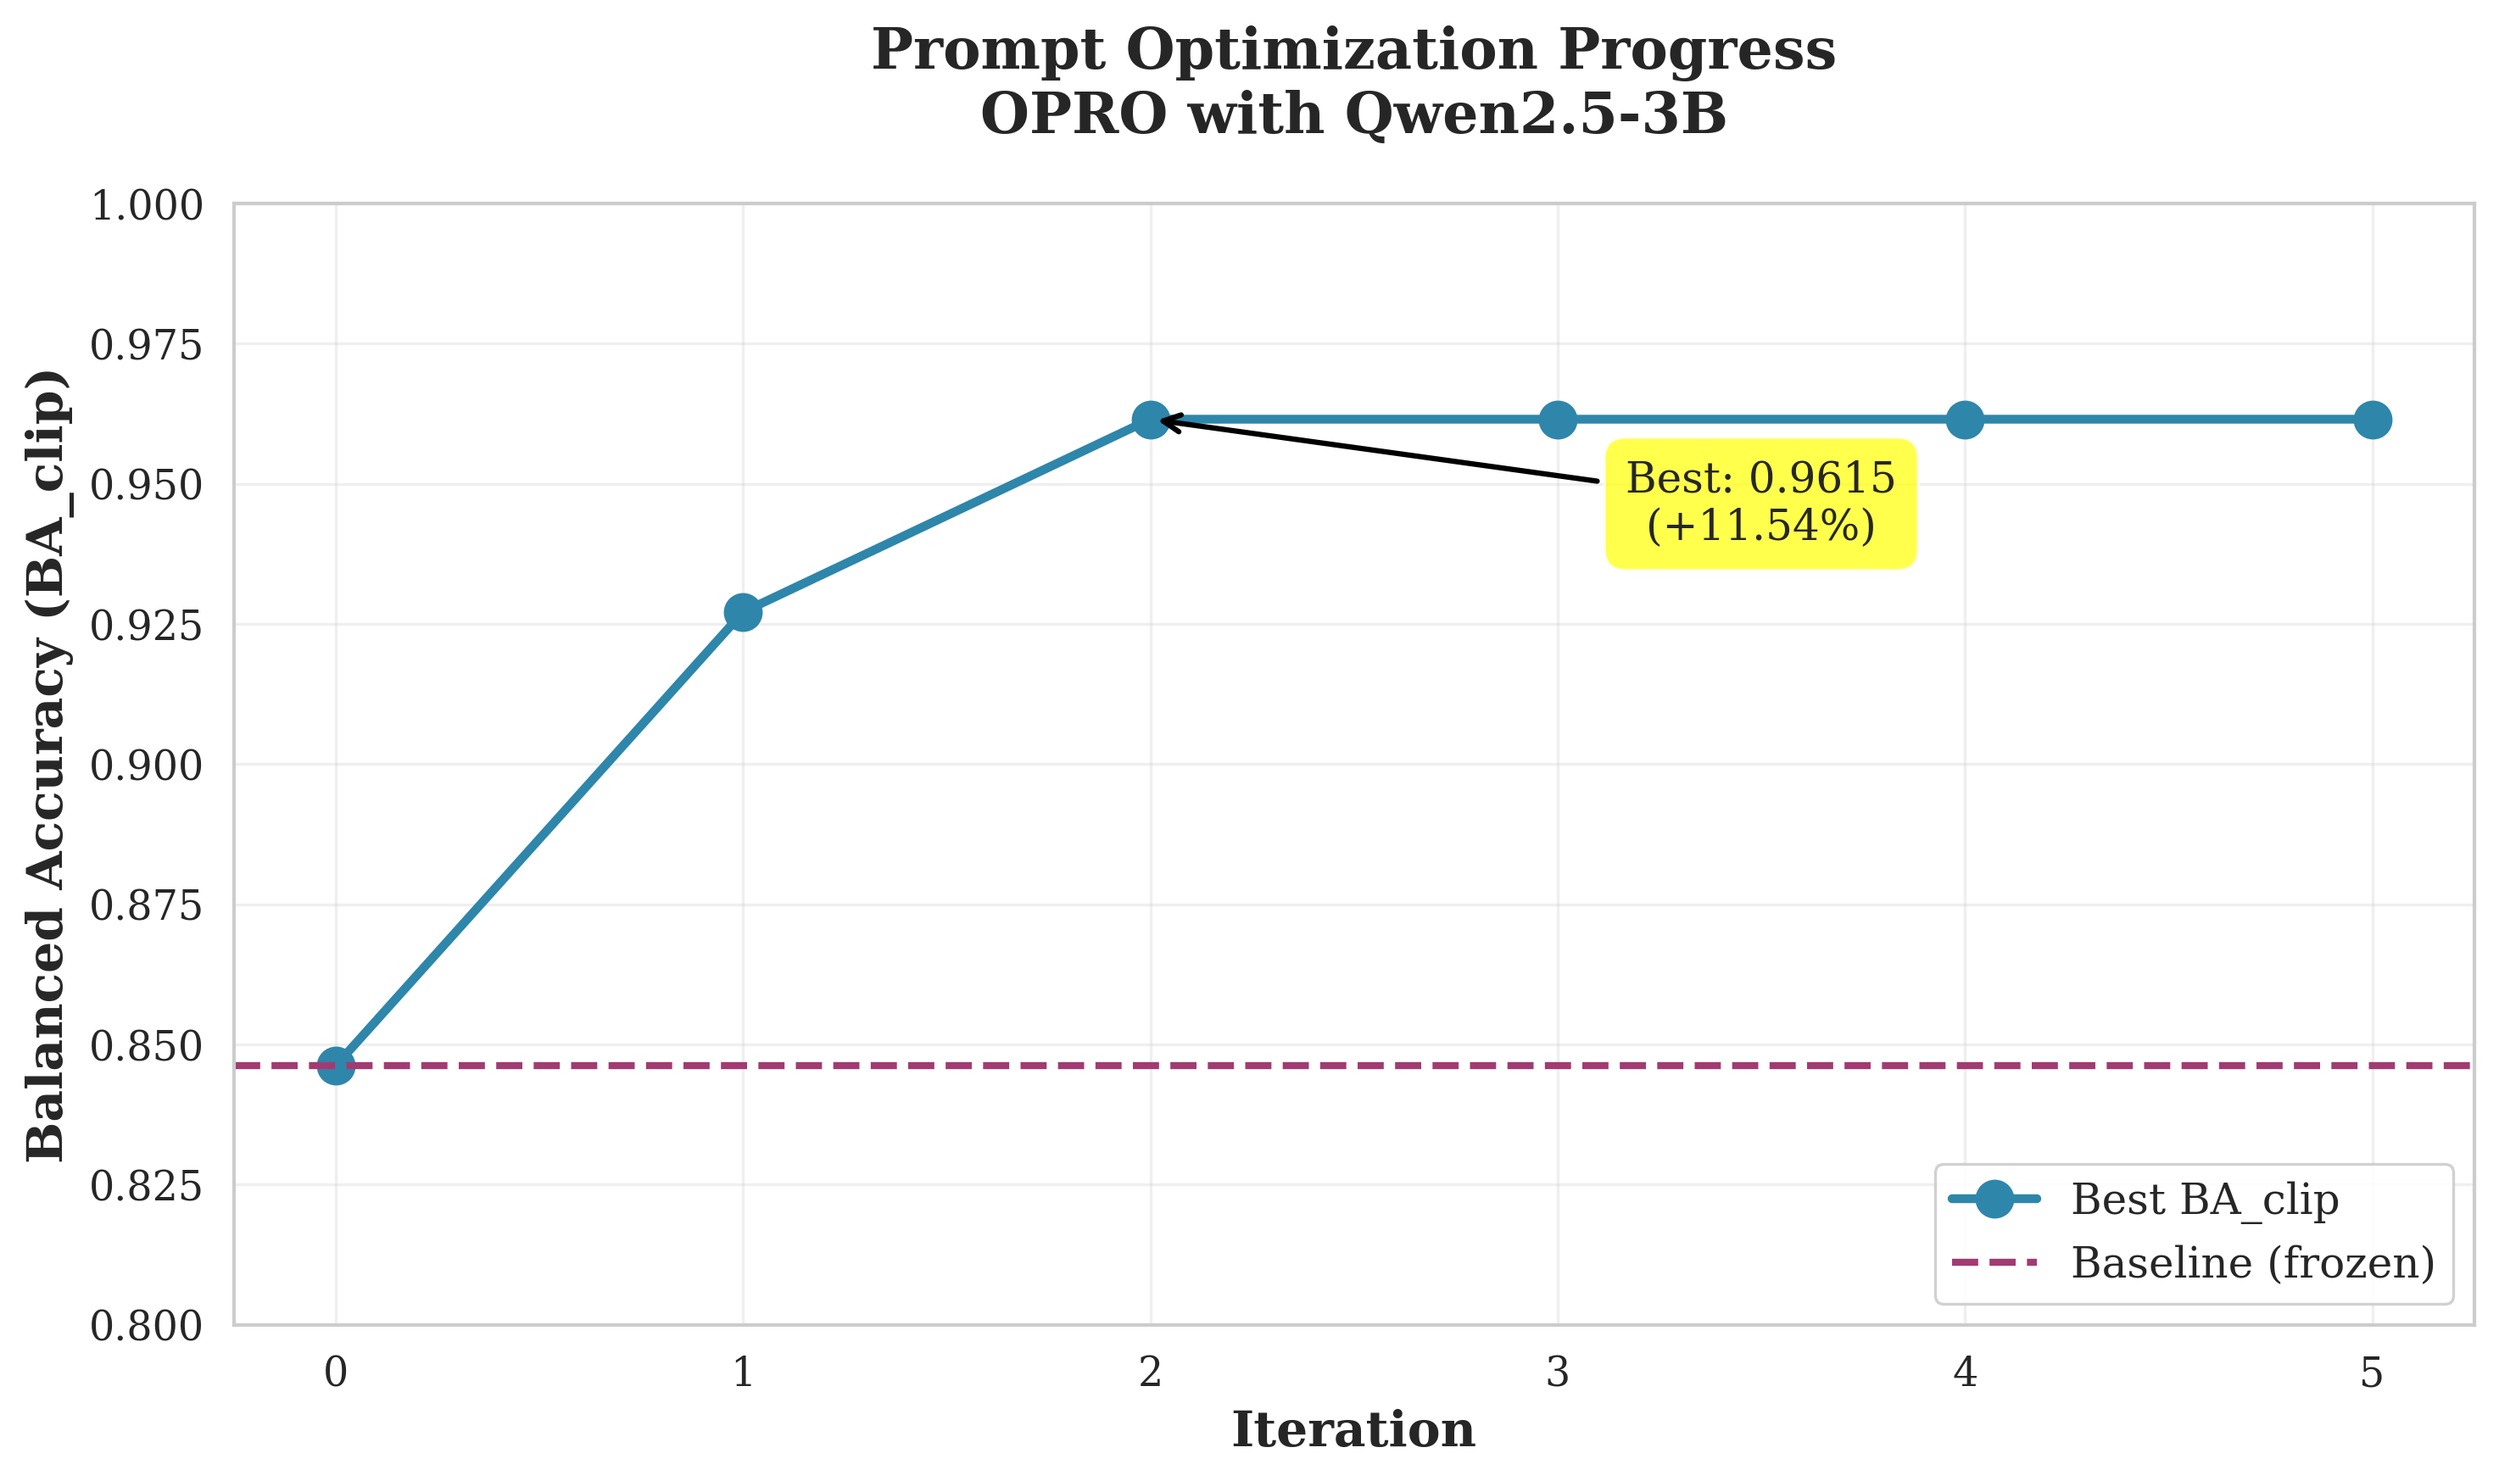
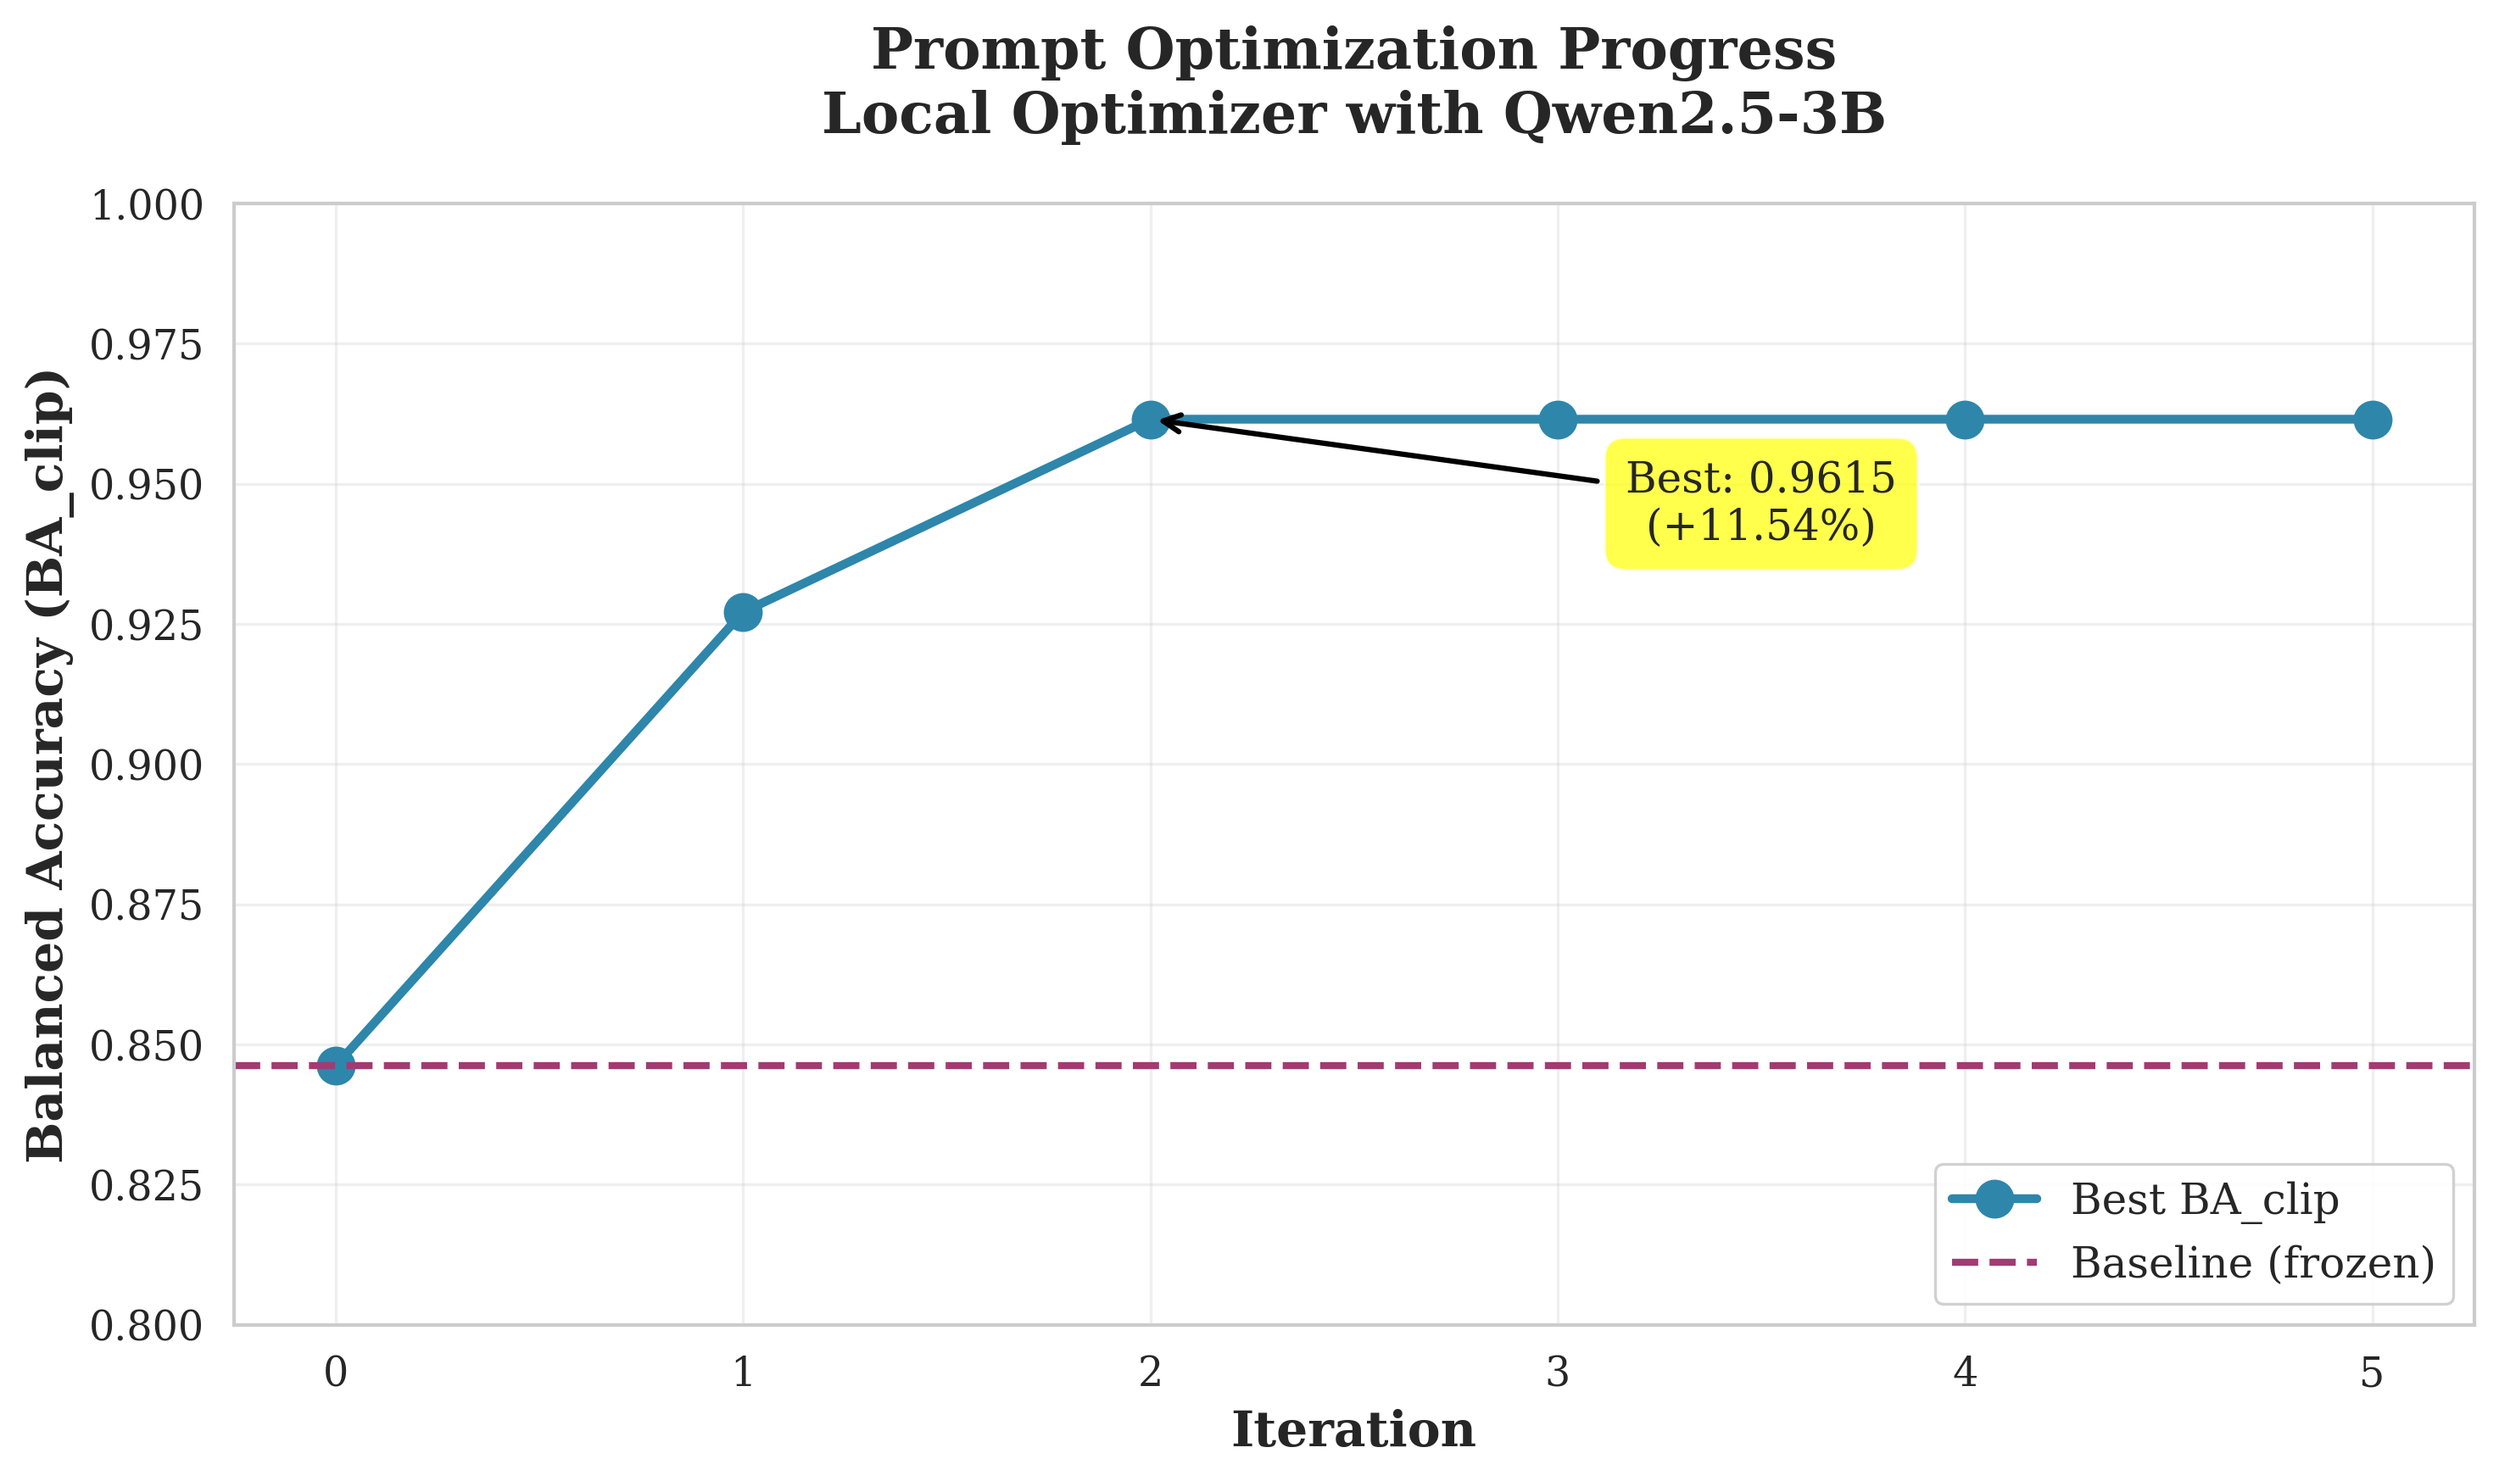
new plots

Changed region(s): [[0.3122, 0.0618, 0.7492, 0.0927]]

diff --git a/scripts/generate_optimization_plots.py b/scripts/generate_optimization_plots.py
@@ -43,7 +43,7 @@ def plot_optimization_progress():
 
     ax.set_xlabel('Iteration', fontsize=14, fontweight='bold')
     ax.set_ylabel('Balanced Accuracy (BA_clip)', fontsize=14, fontweight='bold')
-    ax.set_title('Prompt Optimization Progress\nOPRO with Qwen2.5-3B',
+    ax.set_title('Prompt Optimization Progress\nLocal Optimizer with Qwen2.5-3B',
                  fontsize=16, fontweight='bold', pad=20)
     ax.set_xticks(iterations)
     ax.set_ylim([0.8, 1.0])

diff --git a/README.md b/README.md
@@ -58,7 +58,8 @@ Reply with ONLY one word: SPEECH or NON-SPEECH.
 ```
 
 ![Optimization Progress](results/prompt_opt_local/optimization_progress.png)
-*Figure 1: The optimizer found the best prompt in just 2 iterations (80 minutes on RTX 4070 Laptop).*
+
+*Figure 1: The local optimizer found the best prompt in just 2 iterations (80 minutes on RTX 4070 Laptop).*
 
 ---
 
@@ -76,6 +77,7 @@ Reply with ONLY one word: SPEECH or NON-SPEECH.
 - Human perception threshold: ~20-30 ms
 
 ![Duration Curve](results/psychometric_curves/duration_curve.png)
+
 *Figure 2: Psychometric curve showing how accuracy improves with longer audio.*
 
 ### 2. SNR Threshold (SNR-75)
@@ -95,6 +97,7 @@ Reply with ONLY one word: SPEECH or NON-SPEECH.
 **Key Finding**: Longer audio helps the model handle more noise (temporal integration).
 
 ![SNR Curves](results/sprint8_stratified/snr_curves_stratified.png)
+
 *Figure 3: SNR thresholds for different audio durations. Longer = better noise tolerance.*
 
 ### 3. Prompt Optimization
@@ -112,6 +115,7 @@ Reply with ONLY one word: SPEECH or NON-SPEECH.
 **Cost**: $0 (runs completely on local GPU)
 
 ![Prompt Comparison](results/prompt_opt_local/prompt_comparison.png)
+
 *Figure 4: Performance of different prompt styles. Simple questions work best.*
 
 #### What Makes a Good Prompt?
@@ -129,6 +133,7 @@ Reply with ONLY one word: SPEECH or NON-SPEECH.
 - Too verbose
 
 ![Length vs Performance](results/prompt_opt_local/length_vs_performance.png)
+
 *Figure 5: Shorter prompts often perform better. The best prompt has only 9 words.*
 
 ### 4. Performance Across Conditions
@@ -136,6 +141,7 @@ Reply with ONLY one word: SPEECH or NON-SPEECH.
 The optimized prompt works well across all psychoacoustic manipulations:
 
 ![Variant Performance](results/prompt_opt_local/variant_performance.png)
+
 *Figure 6: Optimized prompt (blue) beats baseline (purple) across all conditions.*
 
 | Condition | Baseline | Optimized | Improvement |
@@ -150,7 +156,7 @@ The optimized prompt works well across all psychoacoustic manipulations:
 ## Repository Structure
 
 ```
-OPRO-Qwen/
+Qwen2-Audio-Psychoacoustic/
 ├── README.md                      # This file
 ├── BASELINE_FINAL_REPORT.md       # Complete scientific report
 │
@@ -181,7 +187,7 @@ OPRO-Qwen/
 
 ```bash
 git clone <repository-url>
-cd OPRO-Qwen
+cd Qwen2-Audio-Psychoacoustic
 pip install -r requirements.txt
 ```
 
@@ -386,7 +392,7 @@ If you use this work, please cite:
 ### Completed
 - Baseline psychometric evaluation (DT75, SNR-75)
 - Statistical interaction analysis (GLMM)
-- Local prompt optimization (OPRO-style)
+- Local prompt optimization (using Qwen2.5-3B as optimizer)
 - Constrained decoding implementation
 
 ### In Progress
@@ -395,7 +401,6 @@ If you use this work, please cite:
 - Contextual calibration for multiple-choice prompts
 
 ### Planned
-- DSPy MIPROv2 integration (automatic Bayesian optimization)
 - Fine-tuning on psychoacoustic data
 - Ensemble methods (self-consistency)
 - Cross-model validation (test prompts on other audio LLMs)
@@ -404,13 +409,12 @@ If you use this work, please cite:
 
 ## License
 
-[Add license]
+This project is licensed under the MIT License - see the [LICENSE](LICENSE) file for details.
 
----
-
-## Contact
-
-[Add contact information]
+**Key points**:
+- Free to use, modify, and distribute
+- Includes warranty disclaimer
+- Requires copyright notice in copies
 
 ---
 
